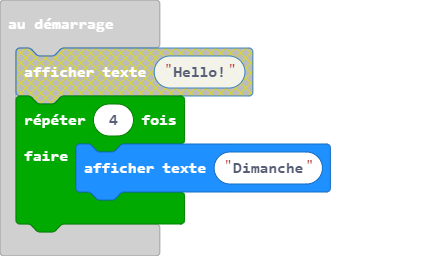
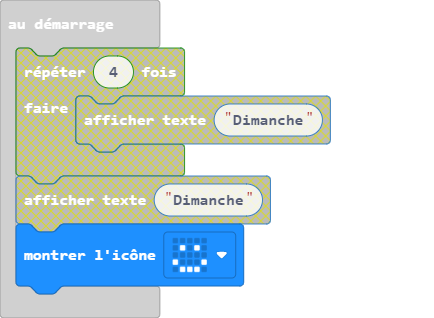
Mise à jour main.blocks, main.ts

diff --git a/main.ts b/main.ts
@@ -1,6 +1,4 @@
-for (let index = 0; index < 4; index++) {
-    basic.showString("Dimanche")
-}
+basic.showIcon(IconNames.Happy)
 basic.forever(function () {
 	
 })
